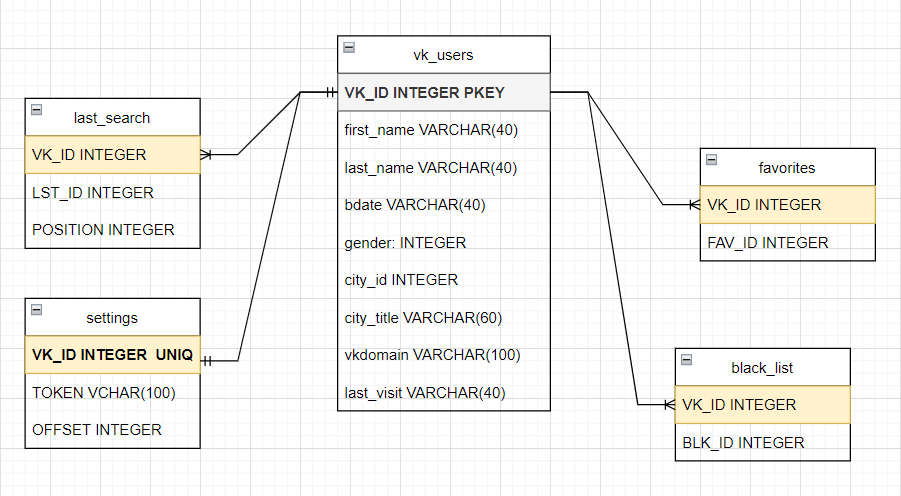
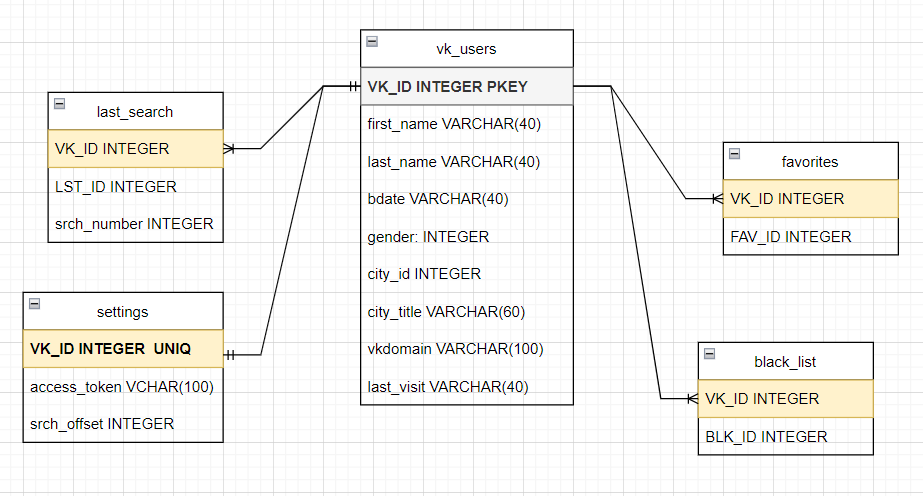
db upated

Changed region(s): [[0.0, 0.0, 1.0, 1.0], [0.7148, 0.0605, 0.7458, 0.121], [0.7148, 0.9677, 0.7458, 0.998]]

diff --git a/modules/db/dataclasses.py b/modules/db/dataclasses.py
@@ -1,0 +1,55 @@
+###########################
+# файл: dataclass.py
+# version: 0.1.1
+###########################
+
+# Пол пользователя ВКонтакте
+VK_MALE = 2
+VK_FEMALE = 1
+VK_UNKNOWN_GENDER = 0
+
+# Класс определяющий набор данных пользователя ВКонтакте
+class VKUserData(object): 
+    # id пользователя ВКонтакте
+    vk_id : int
+    # Имя пользователя ВКонтакте
+    first_name : str
+    # Фамилия пользователя
+    last_name: str
+    # День рождения пользователя
+    bdate: str
+    # Пол пользоветеля
+    gender : int
+    # id города пользователя
+    city_id: int
+    # Название города пользователя
+    city_title: str
+    # адрес траницы ВКонтакте пользователя
+    vkdomain: str
+    # Дата время последнего общения с ботом
+    last_visit: str
+    # дополнительные свойства пользователя ВКонтакте
+    settings : list
+
+    #инициализация класса
+    def __init__(self):
+        super().__init__()
+
+        # инициализация данных "по умолчанию"
+        self.vk_id = -1
+        self.first_name = ''
+        self.last_name = ''
+        self.bdate = ''
+        self.gender = VK_UNKNOWN_GENDER
+        self.city_id = -1
+        self.city_title = ''
+        self.vkdomain = ''
+        self.last_visit = ''
+        self.settings = {'access_token' : '', 'srch_offset' : -1}
+    # end __init__()
+
+    # вывод данных о пользователе в формате json
+    def json():
+        pass
+
+# end class VKUserData
